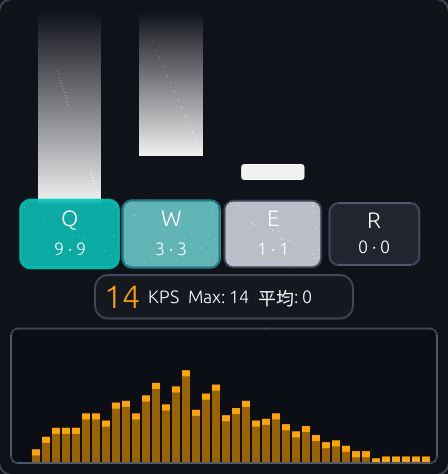
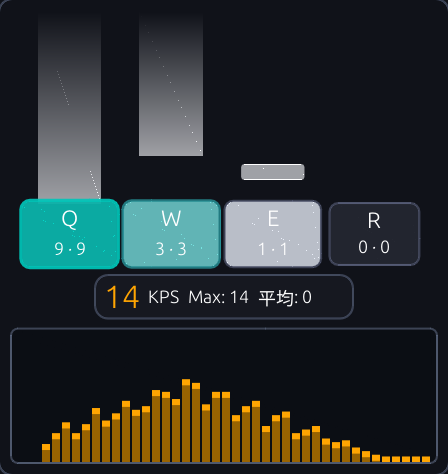
feat(kps): 键雨排间层次重做 —— 第一排压淡、逐排收窄抬实、第3排起换色相

diff --git a/src/gui/rain.rs b/src/gui/rain.rs
@@ -21,9 +21,13 @@
 //!   跟着热度变色会让人误以为自己按多快，而且和键格本身的发光混在一起看不出层次。
 //!
 //! 多层布局（`kps_keys` 里换行 = 分行）：所有排共用同一条轨道（轨道底边 = 第一排键格顶边），
-//! 但**排号越大越窄、越透明**（`ROW_WIDTH_STEP` / `ROW_ALPHA_STEP`）：
-//! 第一排永远是原始宽度与不透明度，第二排起逐排收窄并降低 alpha。这样两排同一竖线上的键
-//! 同时按下时，能看到"前景窄条叠在背景宽条上"，而不是两个同宽条糊成一块。
+//! 但**排号越大越窄、越实**（`ROW_WIDTH_STEP` / `ROW_ALPHA_TABLE`），且**第 3 排起换色相**：
+//! - 宽度：第 1 排原始宽度，之后 ×0.70 / ×0.49 / ×0.34，一层套一层地收窄；
+//! - 不透明度：第 1 排刻意压到 0.35（明显淡于实心），之后 0.72 / 0.92 / 1.00 逐排抬升 ——
+//!   窄条画在宽条中心，中心最终呈现的就是最深那一排的颜色，所以必须让后面的排最实，
+//!   否则中心早早被第一排糊成纯白，换色也看不出来；表外为 0 = 完全不画；
+//! - 色相：第 3 排起从基色（默认纯白，先抬饱和度再转）逐排 +0.15，一眼分出前后几层。
+//! 于是多排同列同时按下时，看到的是「淡而宽的底条 + 实而彩的窄心」，而不是两根同宽白条糊成一块。
 //!
 //! 来源（样式参照）：https://github.com/adofaiex/JipperKeyViewer
 
@@ -37,11 +41,27 @@ const BAR_W_RATIO: f32 = 0.72;
 /// 条宽绝对上下限（px）：极小缩放下不至于细成线，极大缩放下不至于糊成整块。
 const BAR_W_MIN: f32 = 4.0;
 const BAR_W_MAX: f32 = 64.0;
-/// 排间宽度递进系数：第 1 排 ×1.00（原始宽度），第 2 排 ×0.85，第 3 排 ×0.72…
-const ROW_WIDTH_STEP: f32 = 0.85;
-/// 排间不透明度递进系数：第 1 排 ×1.00，第 2 排 ×0.72，第 3 排 ×0.52…
-/// **只降 alpha，不改颜色** —— 靠压暗颜色做层次会在深色背景上变成一团脏灰。
-const ROW_ALPHA_STEP: f32 = 0.72;
+/// 排间宽度递进系数：第 1 排 ×1.00，第 2 排 ×0.60，第 3 排 ×0.36，第 4 排 ×0.22…
+/// 给得这么狠是有原因的：**同一列的不同排共用同一条竖线**，窄条整个落在宽条内部，
+/// 只能靠宽条两边露出来的那一圈看出层次；衰减太小就只是一根粗柱子，看不出有几排。
+/// 这样叠出来是一层层「套娃」的效果，一眼就能数出几排同时按着。
+const ROW_WIDTH_STEP: f32 = 0.70;
+/// 每排的不透明度系数（按排号索引，超出表长 = 0，即**彻底透明、完全不画**）。
+/// 方向是**越靠后的排越实**：几排的雨共用同一条轨道与同一水平中心，其实是**层层叠在一起**的，
+/// 又因为后画的排更窄、盖在中心，所以中心最终呈现的正是最深那一排的颜色。
+/// 若第 1 排就已经是实心白，中心早早饱和成纯白，后面的换色排再怎么调都叠不上去 ——
+/// 这正是「深浅对比看不出来」的根因。因此第 1 排压到 0.35（明显淡于实心），
+/// 逐排抬升到 1.00，表外为 0（**允许一路衰减到完全透明**，对标 JipperKeyViewer 的逐排消失）。
+const ROW_ALPHA_TABLE: [f32; 5] = [0.35, 0.72, 0.92, 1.00, 0.0];
+/// 排宽下限（px）：深层排不能被连乘到看不见。
+const ROW_WIDTH_MIN: f32 = 1.5;
+/// 排号 → 色相表（0 起；`None` = 沿用 `kps_rain_color`，不做色相变换）。
+/// 用固定表而不是逐排累加，是为了让相邻两排**一眼就是两种颜色**：
+/// 累加出来的 0.70 / 0.85 都落在紫红一带，叠起来仍是一片粉，分不出前后。
+/// 0.55 ≈ 天青、0.80 ≈ 紫 —— 冷色段彼此距离够远，且不会撞上键格本身的热力青绿。
+const ROW_HUE_TABLE: [Option<f32>; 5] = [None, None, Some(0.55), Some(0.80), None];
+/// 换色排的最低饱和度：纯白没有色相，必须先给饱和度，否则色相原地旋转等于没变。
+const ROW_TINT_SAT: f32 = 0.88;
 /// 取样窗口（秒）。**故意给得远大于"走完一条轨道"**：
 /// 松手后的雨还要继续上飘、还要能被裁短，若窗口等于走完轨道的时间，
 /// 松手瞬间整条雨就会因为"按下太久"被丢掉 —— 那正是"松手即消失"的根因。
@@ -92,6 +112,30 @@ fn fade_at(d_from_top: f32, h: f32) -> f32 {
     d_from_top.max(0.0).min(band) / band
 }
 
+/// 某个排的不透明度系数（见 `ROW_ALPHA_TABLE`）。表外的排返回 0 = 完全不画。
+fn row_alpha_scale(row: usize) -> f32 {
+    ROW_ALPHA_TABLE.get(row).copied().unwrap_or(0.0)
+}
+
+/// 某个排的雨条颜色：`ROW_TINT_FROM` 之前的排用 `base`，之后按排号旋转色相。
+///
+/// 纯白没有色相，所以白色时先落到 `ROW_HUE_BASE`（天青）并抬起饱和度再按 `ROW_HUE_STEP` 递进 ——
+/// 否则 HSV 色相原地旋转，白色永远是白色，换了颜色也看不出来。
+fn row_color(base: Color32, row: usize) -> Color32 {
+    let Some(hue) = ROW_HUE_TABLE.get(row).copied().flatten() else {
+        return base;
+    };
+    let hsva = egui::ecolor::Hsva::from_srgb([base.r(), base.g(), base.b()]);
+    let tinted = egui::ecolor::Hsva {
+        h: hue,
+        s: hsva.s.max(ROW_TINT_SAT),
+        v: hsva.v.max(0.85),
+        a: 1.0,
+    };
+    let [r, g, b, _] = tinted.to_srgba_unmultiplied();
+    Color32::from_rgb(r, g, b)
+}
+
 /// 键雨的固定基色（`kps_rain_color`，默认纯白）。
 ///
 /// **不跟随 KPS 热度**：雨条是"这次按压的运动轨迹"，与手速无关；跟着热度变色会让同一个键
@@ -127,10 +171,15 @@ pub(crate) fn paint_kps_rain(
 
     let mut info_idx = 0usize;
     for (row, cells) in layout.rows.iter().enumerate() {
-        // 排间递进：第 1 排（row = 0）恒为 1.00，即**原始宽度与原始不透明度**。
-        // 这一点是硬约束：只要第一排按过键，它的雨就必须和你单独按它时一模一样。
+        // 排间递进：宽度逐排收窄、不透明度逐排抬升、第 3 排起换色相。
+        // 第一排刻意压得比实心淡（0.35）—— 多排是叠在同一条竖线上的，
+        // 第一排若已是实心白，中心永远饱和，后面的排无论换色还是调 alpha 都看不出来。
+        let alpha_scale = row_alpha_scale(row);
+        if alpha_scale <= 0.0 {
+            continue; // 表外的排彻底透明，连几何都不必算
+        }
         let step = ROW_WIDTH_STEP.powi(row as i32);
-        let alpha_scale = ROW_ALPHA_STEP.powi(row as i32);
+        let row_base = row_color(base, row);
         for (cell_idx, cell) in cells.iter().enumerate() {
             let Some(&(x_off, box_w)) = row_pos.get(row).and_then(|r| r.get(cell_idx)) else {
                 break;
@@ -151,7 +200,8 @@ pub(crate) fn paint_kps_rain(
                 continue;
             }
             let cx = rain_area.left() + x_off + box_w * 0.5;
-            let w = (box_w * rain_width_ratio(cfg)).clamp(BAR_W_MIN, BAR_W_MAX) * step;
+            let w = ((box_w * rain_width_ratio(cfg)).clamp(BAR_W_MIN, BAR_W_MAX) * step)
+                .max(ROW_WIDTH_MIN);
 
             for &(start_age, end_age) in spans {
                 // 前沿：从按下算起按固定速度推进，**松手后继续推进**（这是"飘上去"的动力）。
@@ -177,7 +227,8 @@ pub(crate) fn paint_kps_rain(
                     continue;
                 }
                 emit_bar(
-                    &painter, cx, w, cell_top, vis_top, vis_bottom, h, opacity, base, alpha_scale,
+                    &painter, cx, w, cell_top, vis_top, vis_bottom, h, opacity, row_base,
+                    alpha_scale,
                 );
             }
         }

diff --git a/src/softshot.rs b/src/softshot.rs
@@ -2667,31 +2667,33 @@ mod tests {
         let p4 = capture(&mut app, &ctx, &mut shot_textures, "kps-rain-both", true, &feed_scene, false, &hud_spec);
         assert!(p4.exists());
 
-        // 4) 两排键同时按：验证「第一排宽度/不透明度不变，第二排起逐排变窄变淡」
-        //    —— 这是用户报的 bug：两排同列同时按时，雨的宽度不该互相影响，
-        //    否则第一排会莫名其妙变窄。这里两排每次都按满，第一排 Q/W/E 必须保持原宽。
-        app.debug_set_kps_keys("Q, W, E\nA, S, D");
+        // 4) 四排键同时按：验证「第一排保持原宽、第 2 排起逐排变窄变淡、第 3 排起换色相」
+        //    —— 用户报的 bug 是两排同列同时按时第一排的雨被挤窄；这里四排每次都按满，
+        //    第一排 Q/W/E 必须保持原宽原色，后三排依次变窄、变淡、换色。
+        app.debug_set_kps_keys("Q, W, E\nA, S, D\nZ, X, C\nT, Y, U");
         {
             let feed_rows = move |app: &mut App| {
                 app.debug_reset_kps();
-                for _ in 0..5 {
-                    app.debug_record_kps_key(&today_rows, "Q");
-                    app.debug_record_kps_key(&today_rows, "A");
+                for (a, b, c, d) in [("Q", "A", "Z", "T"), ("W", "S", "X", "Y"), ("E", "D", "C", "U")]
+                {
+                    for k in [a, b, c, d] {
+                        app.debug_record_kps_key(&today_rows, k);
+                    }
                 }
-                for _ in 0..3 {
-                    app.debug_record_kps_key(&today_rows, "W");
-                    app.debug_record_kps_key(&today_rows, "S");
-                }
-                app.debug_record_kps_key(&today_rows, "E");
-                app.debug_record_kps_key(&today_rows, "D");
-                // 两排同列（第 1 列 / 第 2 列）同时按住，看宽度是否互相干扰
+                // 四排同列同时按住，看宽度 / 不透明度 / 色相是否逐排递进
                 for (key, start, end) in [
                     ("Q", 3000u64, None),
                     ("A", 3000, None),
+                    ("Z", 3000, None),
+                    ("T", 3000, None),
                     ("W", 2000, Some(600)),
                     ("S", 2000, Some(600)),
+                    ("X", 2000, Some(600)),
+                    ("Y", 2000, Some(600)),
                     ("E", 900, Some(400)),
                     ("D", 900, Some(400)),
+                    ("C", 900, Some(400)),
+                    ("U", 900, Some(400)),
                 ] {
                     app.debug_push_hold(key, start, end);
                 }

diff --git a/README.md b/README.md
@@ -63,7 +63,7 @@
 - **设置**：历史保留天数、显示器物理尺寸、热力图键宽/键高/间距、**界面语言（跟随系统 / 中文 / English）**、窗口行为与**分时阈值**，保存立即生效（与统计列表同一套浅色风格，左右并排展开；设置表单按「历史数据 + 屏幕尺寸 / 键盘布局 / 语言 + 窗口 + 数据校验」**分三栏**排列，展开后高度更紧凑）；切换语言会同时更新窗口标题与托盘菜单，没有中文字体时中文自动回退英文并给出提示
 - **主流多配列键盘支持**：除标准 104 键外，原生支持 **98键（紧凑全尺寸）、87键（TKL）、84键（75%）、68键（65%）、64键（GK64）、60键** 等主流键盘配列切换与自适应画布，小配列下分时折线图与钟点控制紧凑排布；为 Fn 键分配独立按键定义（`FN_INDEX 104`），彻底解除与 Menu 键的绑定冲突；设置面板自适应防溢出，在各类小配列及中英双语下保持整洁排版
 - **实时 APM 与独立 HUD 胶囊悬浮窗**：高精度实时 APM 统计（滑动窗口 5~300 秒可调，**数值 = 窗口内的动作数**：60 秒窗口下点一次就是 1 APM，窗口调短也不会放大倍率）；采用独立多视口架构打造 **32 高、宽度贴合内容的超紧凑无边框置顶暗黑胶囊条**（显示项越多越宽，右侧不再留空），可与主程序无缝并存；显示实时 APM、今日最高峰值 APM 与今日敲击数（键盘 / 鼠标点击 / 移动距离三项可在设置里逐项开关）。**胶囊条本身只有数据、没有任何按钮**：按住拖动移动、双击呼出主程序、**右键打开它自己的设置窗口**（统计窗口长度、显示项、**缩放 60~400%**、**限制在屏幕内**、不透明度、重置峰值、呼出主程序、关闭悬浮窗）。**KDE 下「置顶」由自动写入的 KWin 规则强制生效**（Wayland 没有置顶协议，winit 的 `always_on_top` 是空实现），非 KDE 的 Wayland 桌面只能保持普通窗口层级
-- **KPS 手速与按键发光监控悬浮窗**：参照 `osu-kps` 与 `KeysPerSecond` 实现的独立置顶透明悬浮窗；**KPS 速率只统计设置里监控的那些键**（打字与其它按键不会把数字抬起来，单键累计次数照旧各键各记）；提供**按住保持点亮 + 松开 50→250ms 淡出**的按键发光反馈（对齐 osu-kps 的 down/up 动画，**长按期间不会中途熄灭**）、**每个键格同时显示该键的累计次数与它自己的 KPS**、实时 KPS 速率、Max 峰值、平均 KPS（自上次重置起的会话平均，对齐 KeysPerSecond 的 AVG 计数器）与动态速率变色阶（**键格颜色对齐 osu-kps 的两条动画**：边框色相按该键自己的 KPS 经 2→4 次/秒的 sigmoid 插值渐入，按压频率降下来时沿原路缓慢退回；底板在按下瞬间亮起、随后 50→250ms 淡出——慢速按下闪浅灰、高速按下闪青绿）。**布局是可自由组合的几块 —— 键雨 / 键位 / 数据 / 分组 / 图**：最上面是**按键雨**（对齐 JipperKeyViewer 的 RainLayer，但这里是**无状态几何重建**：每帧从「每个键的按压区间」直接算出整条雨，按住期间**持续发射**、松手即停，已发射出去的部分**不停下**——长度定格后整条继续按原速上飘，前沿越过轨道顶后改从**底部**被逐段裁掉，直到整条出顶才消失（对齐 JipperKeyViewer 的 `sizeY = FinalSize.y - dropY + height`）；竖条从键格顶边向上长成连续一根，**条宽默认键格宽的 72%**（略窄于键格，两侧各留约 14% 的边，可在 20~100% 之间调）；渐隐带固定在**轨道顶部 1/3**（进入后线性淡到 0）；速度配置的是**走完整个轨道要多少毫秒**（200~20000，默认 1200 —— 换轨道高度不改观感）、轨道高度 16~400 像素（默认 96）、不透明度 0~100%，多排键位时**第 1 排永远保持原始宽度与原始不透明度，第 2 排起逐排收窄并变淡**（宽度 ×0.85、不透明度 ×0.72 逐排递进，第 3 排再乘一次），所有排共用同一条轨道 —— 这样两排同一竖线上的键同时按下时，看到的是「前景窄条叠在背景宽条上」，而不是两个同宽条糊成一块；**雨条颜色是固定的**（默认纯白，设置窗口里可取色自定义），**不随 KPS 热度变色** —— 雨是这一次按压的运动轨迹，跟着热度变色会让人误以为自己按得很快，也会和键格本身的发光混在一起看不出层次），再下面是键格（可多行；**每行缝隙等宽、按键左右对称**——两侧边距与键缝一样宽，右侧不会空出一大块；**按压弹跳**让按下的键格瞬间放大 7.5% 再回弹，对齐 JipperKeyViewer 的 KeyShapeLayer），中间一行数据（**当前 KPS · Max · 平均**，数字按实测宽度往后排，KPS 到两三位数也不会和标签挤在一起），**分组 KPS 行**（把键位任意拆组、逐组显示「组名 速率 KPS (次数)」，例如左手 A,S,D,F、右手 J,K,L,；——对齐 JipperKeyViewer 的 GroupId；写法是一行一组 `组名=键1,键2`，组名可省略），最下面是**整宽的 KPS 图**（KPS 与 APM 定位不同，窗口比胶囊条大得多）。**键雨与 KPS 图是两个互相独立的开关，三种组合都成立**：只开图 = osu-kps 式的经典柱状图；只开键雨 = JipperKeyViewer 式的纯击键轨迹；两者都开则既有瞬时轨迹也有历史趋势（信息量最高，是本项目的差异点）；都关则只留键格与数字，压缩成一条极简计时条。**KPS 图**（参照 osu-kps）：按**整秒分桶**的历史柱状图（每秒一根柱，峰值一秒后自然左移消失，不会拖尾）、叠一条平均线，悬停显示该时段内的最大 KPS，图时长可调（10~300 秒，默认 300）；**计算方式**可选 `硬算`（严格数统计窗口内的次数，稳定）或 `灵敏`（对齐 osu-kps：只看最近 2.5 秒、单次击键最多算 1.5，连击时贴近真实速率、停下来立刻回落）；**键格布局直接写在「监控按键」里**（零学习成本的一套小语法，设置窗口里是多行输入框）：**换行 = 分行**（不写换行时每行最多 12 个自动换行）；**空项 = 空位**（`,,H,J` 把 H、J 挪到第 3、4 列）；**数字前缀 = 宽度倍数**（`1.5H` 让 H 占 1.5 格、`4H` 占 4 格）；**自适应键宽**（可勾选开关）让**最后一行的键平分整行宽度 —— 如 5 格宽的行上放 `H,J`，两者各 2.5 格宽**。**缩放**（60~400%）与**限制在屏幕内**都在**它自己的设置窗口**里（右键悬浮窗打开）；**键位设置**参照 osu-kps：填「键数」N 后点「设置键位」，程序会依次记录你按下的 N 个键作为监控键（默认键位是 `qwertyuiopasdfghjklzxcvbnm` 的前 N 个，如 6 键 = q,w,e,r,t,y，也可以点「默认键位」一键恢复）；按键格子 / 统计信息 / KPS 图 / 按键雨 / 分组 KPS 五块可分别开关；**重置**是个下拉菜单（对齐 osu-kps）：可分别清空**按键总次数 / 最大 KPS / KPS 图**，或一键**以上所有**（平均 KPS 也从头算）。两个悬浮窗都会**静默记忆上次拖放的位置**（写进配置文件，重启 / 重新登录后回到原位，无设置项；「限制在屏幕内」开启时恢复的位置若在屏幕外会被自动推回）。位置记忆与屏幕内限制在 Windows / X11 / KDE Wayland 上可用（KDE 走 KWin 脚本通道），其它 Wayland 桌面因协议限制不可用。悬浮窗与其设置窗口的文字都是白色，深色底上看得清；不读取任何其它程序的窗口状态
+- **KPS 手速与按键发光监控悬浮窗**：参照 `osu-kps` 与 `KeysPerSecond` 实现的独立置顶透明悬浮窗；**KPS 速率只统计设置里监控的那些键**（打字与其它按键不会把数字抬起来，单键累计次数照旧各键各记）；提供**按住保持点亮 + 松开 50→250ms 淡出**的按键发光反馈（对齐 osu-kps 的 down/up 动画，**长按期间不会中途熄灭**）、**每个键格同时显示该键的累计次数与它自己的 KPS**、实时 KPS 速率、Max 峰值、平均 KPS（自上次重置起的会话平均，对齐 KeysPerSecond 的 AVG 计数器）与动态速率变色阶（**键格颜色对齐 osu-kps 的两条动画**：边框色相按该键自己的 KPS 经 2→4 次/秒的 sigmoid 插值渐入，按压频率降下来时沿原路缓慢退回；底板在按下瞬间亮起、随后 50→250ms 淡出——慢速按下闪浅灰、高速按下闪青绿）。**布局是可自由组合的几块 —— 键雨 / 键位 / 数据 / 分组 / 图**：最上面是**按键雨**（对齐 JipperKeyViewer 的 RainLayer，但这里是**无状态几何重建**：每帧从「每个键的按压区间」直接算出整条雨，按住期间**持续发射**、松手即停，已发射出去的部分**不停下**——长度定格后整条继续按原速上飘，前沿越过轨道顶后改从**底部**被逐段裁掉，直到整条出顶才消失（对齐 JipperKeyViewer 的 `sizeY = FinalSize.y - dropY + height`）；竖条从键格顶边向上长成连续一根，**条宽默认键格宽的 72%**（略窄于键格，两侧各留约 14% 的边，可在 20~100% 之间调）；渐隐带固定在**轨道顶部 1/3**（进入后线性淡到 0）；速度配置的是**走完整个轨道要多少毫秒**（200~20000，默认 1200 —— 换轨道高度不改观感）、轨道高度 16~400 像素（默认 96）、不透明度 0~100%，多排键位时所有排共用同一条轨道、**一层套一层**：宽度第 1 排原始、之后逐排 ×0.70 / ×0.49 / ×0.34 收窄，不透明度第 1 排刻意压到 0.35（明显淡于实心）后逐排抬到 0.72 / 0.92 / 1.00，**第 3 排起再换色相**（青 → 紫），第 5 排起完全不画 —— 因为各排共用同一条竖线、窄条落在宽条中心，必须让后面的排最实、最窄，中心才会呈现后面的颜色，否则第一排一实心就把整条糊成纯白、换色也看不出来；这样多排同列同时按下时，看到的是「淡而宽的底条 + 实而彩的窄心」，一眼数得出几排同时按着；**雨条颜色是固定的**（默认纯白，设置窗口里可取色自定义），**不随 KPS 热度变色** —— 雨是这一次按压的运动轨迹，跟着热度变色会让人误以为自己按得很快，也会和键格本身的发光混在一起看不出层次），再下面是键格（可多行；**每行缝隙等宽、按键左右对称**——两侧边距与键缝一样宽，右侧不会空出一大块；**按压弹跳**让按下的键格瞬间放大 7.5% 再回弹，对齐 JipperKeyViewer 的 KeyShapeLayer），中间一行数据（**当前 KPS · Max · 平均**，数字按实测宽度往后排，KPS 到两三位数也不会和标签挤在一起），**分组 KPS 行**（把键位任意拆组、逐组显示「组名 速率 KPS (次数)」，例如左手 A,S,D,F、右手 J,K,L,；——对齐 JipperKeyViewer 的 GroupId；写法是一行一组 `组名=键1,键2`，组名可省略），最下面是**整宽的 KPS 图**（KPS 与 APM 定位不同，窗口比胶囊条大得多）。**键雨与 KPS 图是两个互相独立的开关，三种组合都成立**：只开图 = osu-kps 式的经典柱状图；只开键雨 = JipperKeyViewer 式的纯击键轨迹；两者都开则既有瞬时轨迹也有历史趋势（信息量最高，是本项目的差异点）；都关则只留键格与数字，压缩成一条极简计时条。**KPS 图**（参照 osu-kps）：按**整秒分桶**的历史柱状图（每秒一根柱，峰值一秒后自然左移消失，不会拖尾）、叠一条平均线，悬停显示该时段内的最大 KPS，图时长可调（10~300 秒，默认 300）；**计算方式**可选 `硬算`（严格数统计窗口内的次数，稳定）或 `灵敏`（对齐 osu-kps：只看最近 2.5 秒、单次击键最多算 1.5，连击时贴近真实速率、停下来立刻回落）；**键格布局直接写在「监控按键」里**（零学习成本的一套小语法，设置窗口里是多行输入框）：**换行 = 分行**（不写换行时每行最多 12 个自动换行）；**空项 = 空位**（`,,H,J` 把 H、J 挪到第 3、4 列）；**数字前缀 = 宽度倍数**（`1.5H` 让 H 占 1.5 格、`4H` 占 4 格）；**自适应键宽**（可勾选开关）让**最后一行的键平分整行宽度 —— 如 5 格宽的行上放 `H,J`，两者各 2.5 格宽**。**缩放**（60~400%）与**限制在屏幕内**都在**它自己的设置窗口**里（右键悬浮窗打开）；**键位设置**参照 osu-kps：填「键数」N 后点「设置键位」，程序会依次记录你按下的 N 个键作为监控键（默认键位是 `qwertyuiopasdfghjklzxcvbnm` 的前 N 个，如 6 键 = q,w,e,r,t,y，也可以点「默认键位」一键恢复）；按键格子 / 统计信息 / KPS 图 / 按键雨 / 分组 KPS 五块可分别开关；**重置**是个下拉菜单（对齐 osu-kps）：可分别清空**按键总次数 / 最大 KPS / KPS 图**，或一键**以上所有**（平均 KPS 也从头算）。两个悬浮窗都会**静默记忆上次拖放的位置**（写进配置文件，重启 / 重新登录后回到原位，无设置项；「限制在屏幕内」开启时恢复的位置若在屏幕外会被自动推回）。位置记忆与屏幕内限制在 Windows / X11 / KDE Wayland 上可用（KDE 走 KWin 脚本通道），其它 Wayland 桌面因协议限制不可用。悬浮窗与其设置窗口的文字都是白色，深色底上看得清；不读取任何其它程序的窗口状态
 - **托盘常驻**：统计 / 设置 / 开机启动 / 退出；点击托盘图标打开统计窗口
 - **只统计物理输入**：Windows 忽略注入输入（LLKHF_INJECTED），Linux 跳过 uinput 虚拟设备（与原版"区分真实模拟"一致）
 - **开机启动**：Windows 写注册表 Run 键，Linux 写 `~/.config/autostart/*.desktop`
